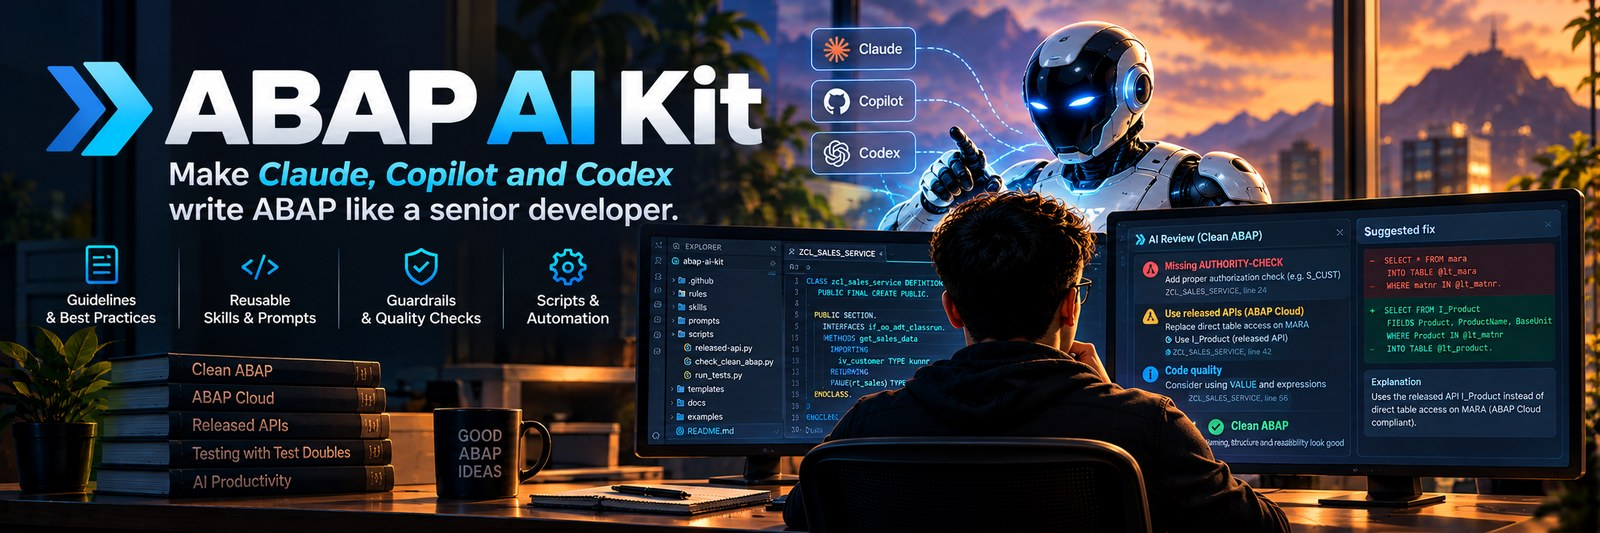
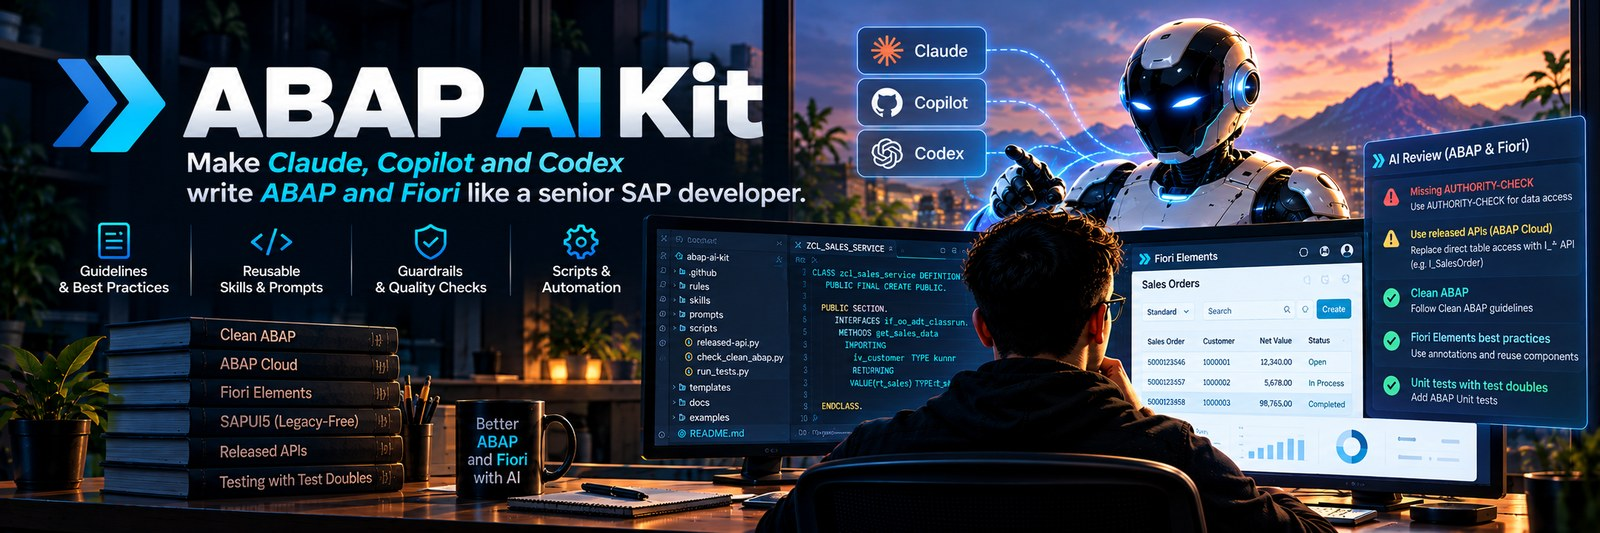
Hero image: ABAP and Fiori

diff --git a/README.md b/README.md
@@ -1,4 +1,4 @@
-<p align="center"><img src=".github/assets/hero.jpg" alt="ABAP AI Kit: make Claude, Copilot and Codex write ABAP like a senior developer" width="100%"></p>
+<p align="center"><img src=".github/assets/hero.jpg" alt="ABAP AI Kit: make Claude, Copilot and Codex write ABAP and Fiori like a senior SAP developer" width="100%"></p>
 
 <h1 align="center">ABAP AI Kit</h1>
 
